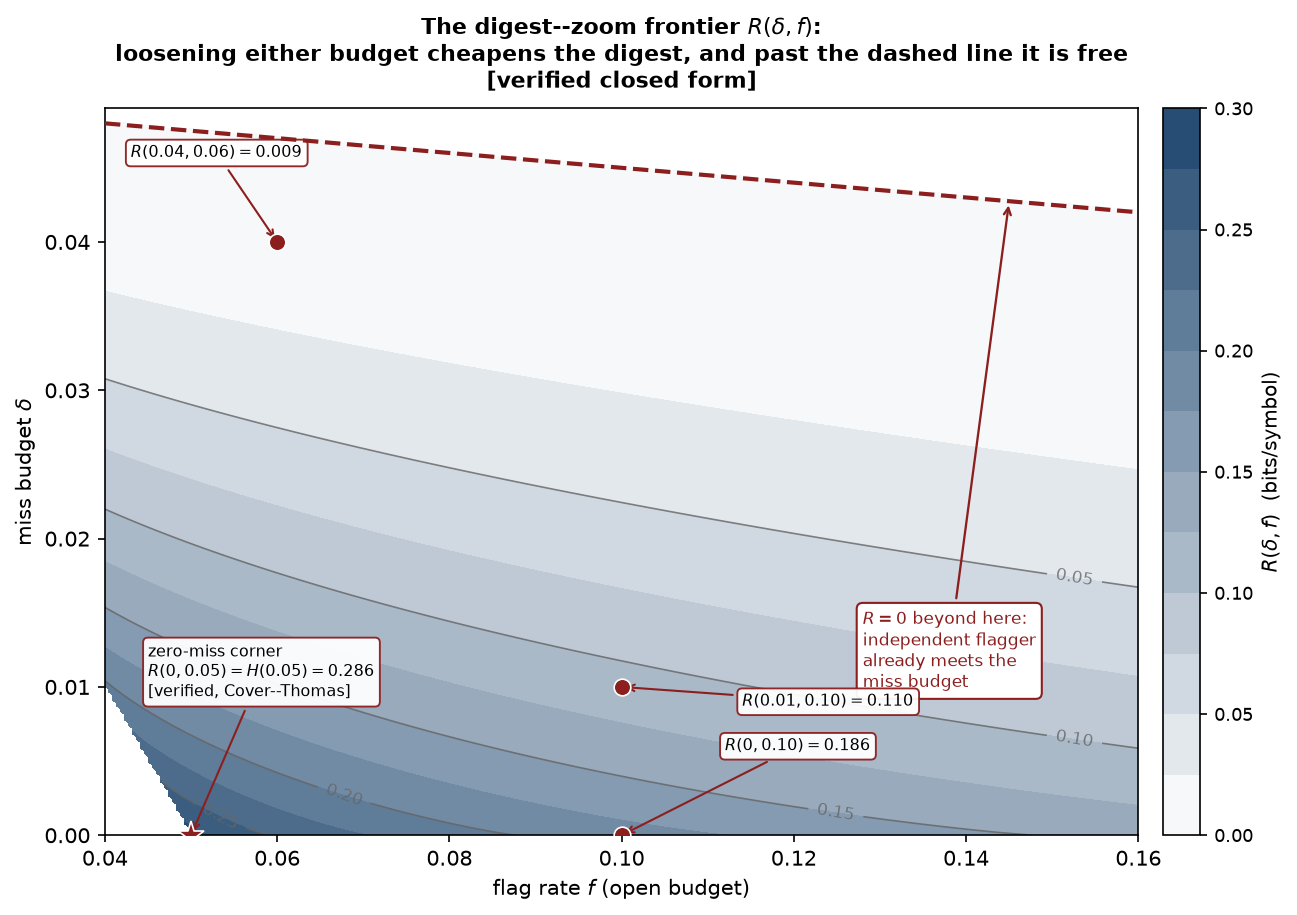
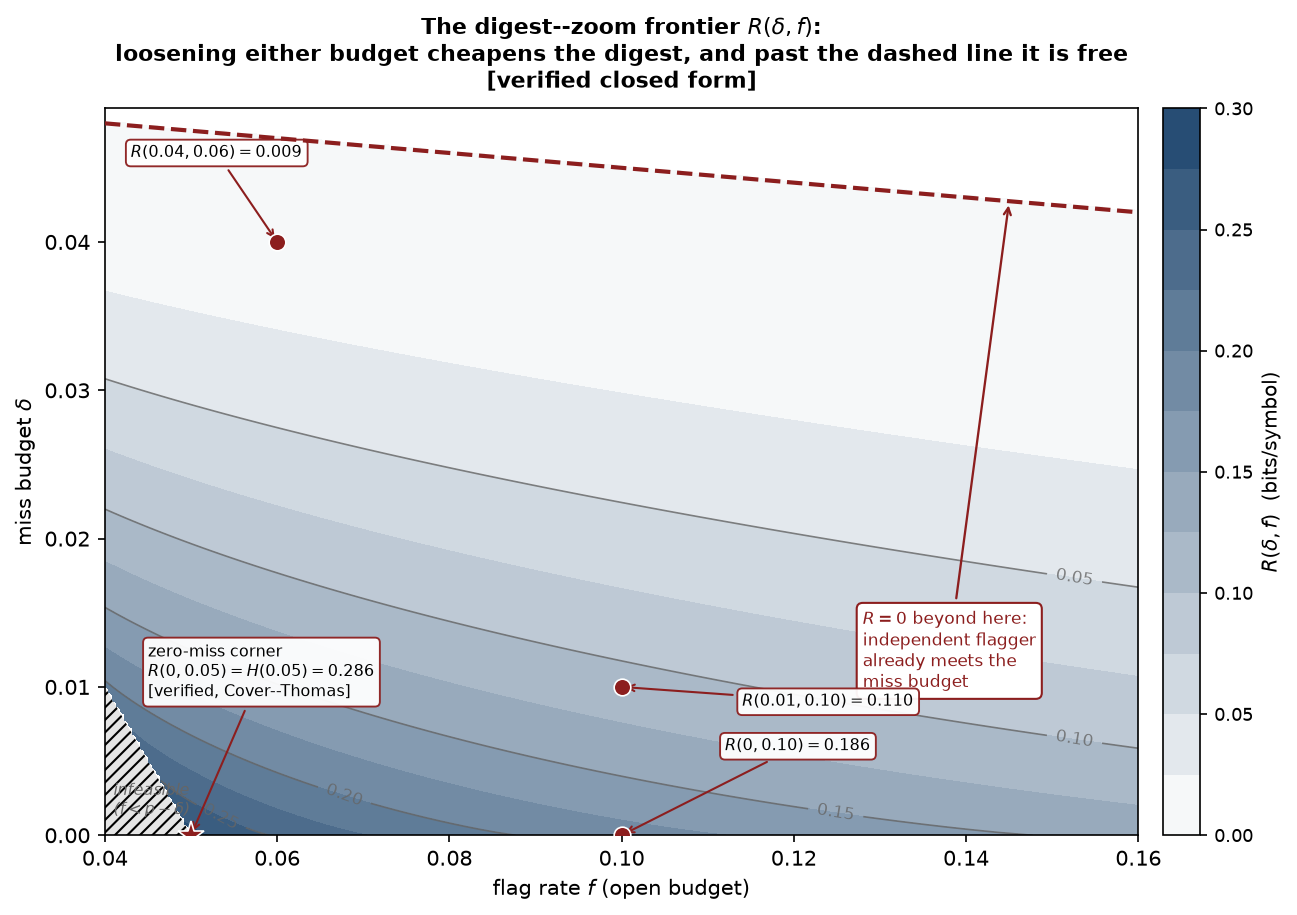
wip: snapshot further paper1 figure tweaks
Claude-Session: https://claude.ai/code/session_01Drw763A57aLMJMPGeLC3HV

Changed region(s): [[0.0617, 0.765, 0.1542, 0.918]]

diff --git a/docs/harbor-research/figures/src/paper1_rdf_frontier_figures.py b/docs/harbor-research/figures/src/paper1_rdf_frontier_figures.py
@@ -62,7 +62,11 @@ def rate_general(pp, f, delta):
 def true_rate(pp, f, delta):
     """The actual optimum: the pinned formula while both constraints bind
     (f < 1 - delta/p), and exactly 0 past that line (an independent
-    flagger of rate f already meets the miss budget there)."""
+    flagger of rate f already meets the miss budget there). Returns NaN
+    where f < p - delta -- infeasible (not enough flag budget even to
+    cover the source rate), a distinct region from the R=0 one."""
+    if f < pp - delta - 1e-12:
+        return np.nan
     if f >= 1 - delta / pp:
         return 0.0
     return rate_general(pp, f, delta)
@@ -76,9 +80,19 @@ def frontier_figure():
 
     fig, ax = plt.subplots(figsize=(9.2, 6.2), dpi=150)
 
+    # infeasible corner (f < p - delta: not even enough flag budget to
+    # cover the source rate) -- hatched gray, drawn under the contourf so
+    # it stays visually distinct from the legitimate R=0 region above.
+    f_inf = np.linspace(0.04, p, 50)
+    d_inf_top = np.clip(p - f_inf, 0, 0.049)
+    ax.fill_between(f_inf, 0, d_inf_top, facecolor='#e5e5e5',
+                     edgecolor='none', hatch='////', zorder=0)
+    ax.text(0.041, 0.001, 'infeasible\n($f<p-\\delta$)', fontsize=7.6,
+            color=GREY, ha='left', va='bottom', style='italic')
+
     cmap = LinearSegmentedColormap.from_list('harbor_seq', ['#ffffff', HARBORBLUE])
     levels = np.linspace(0, 0.30, 13)
-    cf = ax.contourf(F, D, R, levels=levels, cmap=cmap)
+    cf = ax.contourf(F, D, R, levels=levels, cmap=cmap, zorder=1)
     cbar = fig.colorbar(cf, ax=ax, pad=0.02)
     cbar.set_label('$R(\\delta,f)$  (bits/symbol)', fontsize=9.5)
     cbar.ax.tick_params(labelsize=8.5)
